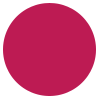
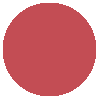
• Camera recording animation changed • Bug fixes

diff --git a/Spore/CameraController.swift b/Spore/CameraController.swift
@@ -17,6 +17,7 @@ import FBSDKLoginKit
 class CameraController: UIViewController, CLLocationManagerDelegate, UITextFieldDelegate, AVAudioRecorderDelegate {
     
     
+    //UI elements
     @IBOutlet var cameraImage: UIImageView!
     @IBOutlet var flashButton: UIButton!
     @IBOutlet var captureButton: UIButton!
@@ -30,6 +31,7 @@ class CameraController: UIViewController, CLLocationManagerDelegate, UITextField
     @IBOutlet var alertView: UIView!
     @IBOutlet var alertButton: UIButton!
     
+    //Camera and media elements
     var captureSession = AVCaptureSession()
     var audioSession = AVAudioSession()
     var audioRecorder: AVAudioRecorder!
@@ -47,6 +49,7 @@ class CameraController: UIViewController, CLLocationManagerDelegate, UITextField
         AVEncoderAudioQualityKey : NSNumber(int: Int32(AVAudioQuality.Medium.rawValue)),
         AVEncoderBitRateKey : NSNumber(int: Int32(320000))]
     
+    //File saving variables
     var locManager = CLLocationManager()
     let fileManager = NSFileManager.defaultManager()
     let documentsDirectory = NSSearchPathForDirectoriesInDomains(.DocumentDirectory, .UserDomainMask, true)[0]
@@ -57,6 +60,7 @@ class CameraController: UIViewController, CLLocationManagerDelegate, UITextField
     let imageFileExtension = ".jpg"
     let compressionGroup = dispatch_group_create()
     
+    //User variables
     var userLocation = PFGeoPoint(latitude: 0, longitude: 0)
     var userCountry = ""
     var userState = ""
@@ -496,7 +500,9 @@ class CameraController: UIViewController, CLLocationManagerDelegate, UITextField
                                 //Disable flash
                                 dispatch_async(dispatch_get_main_queue(), { () -> Void in
                                     
+                                    self.turnTorchOff()
                                     self.flashButton.enabled = false
+                                    
                                 })
                                 
                                 //Configure device modes
@@ -1388,19 +1394,6 @@ class CameraController: UIViewController, CLLocationManagerDelegate, UITextField
                 self.captureSession.stopRunning()
             })
         }
-            /*
-        else if reason == AVCaptureSessionInterruptionReason.VideoDeviceNotAvailableWithMultipleForegroundApps.rawValue {
-            
-            print("Interruption ended")
-            closeAlert()
-            dispatch_async(cameraQueue, { () -> Void in
-                
-                self.addCameraInputs()
-                self.addCameraOutputs()
-                self.captureSession.startRunning()
-            })
-            
-        }*/
     }
     
     

diff --git a/Spore/CaptureShape.swift b/Spore/CaptureShape.swift
@@ -57,6 +57,7 @@ class CaptureShape: UIView {
         //Animate the timer
         let progress = CABasicAnimation(keyPath: "strokeStart")
         let expansion = CABasicAnimation(keyPath: "path")
+        let width = CABasicAnimation(keyPath: "lineWidth")
         
         //Configure animation
         progress.duration = 10
@@ -72,15 +73,28 @@ class CaptureShape: UIView {
         expansion.removedOnCompletion = false
         expansion.fillMode = kCAFillModeForwards
         
+        
+        //Configure width change
+        width.duration = 2
+        width.fromValue = 3
+        width.toValue = 5
+        width.removedOnCompletion = false
+        width.fillMode = kCAFillModeForwards
+            
+            
         record.addAnimation(progress, forKey: nil)
-        border.addAnimation(expansion, forKey: nil)
         record.addAnimation(expansion, forKey: nil)
+        record.addAnimation(width, forKey: nil)
+        
+        border.addAnimation(expansion, forKey: nil)
+        border.addAnimation(width, forKey: nil)
     }
     
     internal func stopRecording() {
         
         border.removeAllAnimations()
         border.path = UIBezierPath(ovalInRect: CGRect(x: 0.0, y: 0.0, width: frame.width, height: frame.height)).CGPath
+        border.lineWidth = 3
         record.removeFromSuperlayer()
     }
     

diff --git a/Spore/MapController.swift b/Spore/MapController.swift
@@ -31,7 +31,7 @@ class MapController: UIViewController, MKMapViewDelegate {
     var receivedMarkersAreLoaded = false
     let receivedClusteringManager = ReceivedClusteringManager()
     
-    let receivedColor = UIColor(red: 189.0/255.0, green: 27.0/255.0, blue: 83.0/255.0, alpha: 1)
+    let receivedColor = UIColor(red: 195.0/255.0, green: 77.0/255.0, blue: 84.0/255.0, alpha: 1)
     let sentColor = UIColor(red: 254.0/255.0, green: 202.0/255.0, blue: 22.0/255.0, alpha: 1)
     
     @IBOutlet var mapView: MKMapView!

diff --git a/Spore/BeaconingIndicator.swift b/Spore/BeaconingIndicator.swift
@@ -16,7 +16,7 @@ class BeaconingIndicator: UIView {
     let dot = CAShapeLayer()
     let swirl = CAShapeLayer()
     let rotateAnimation = CABasicAnimation(keyPath: "transform.rotation")
-    let color = UIColor(red: 189.0/255.0, green: 27.0/255.0, blue: 83.0/255.0, alpha: 1).CGColor
+    let color = UIColor(red: 195.0/255.0, green: 77.0/255.0, blue: 84.0/255.0, alpha: 1).CGColor
     var isAnimating = false
     
     

diff --git a/Spore/UserListController.swift b/Spore/UserListController.swift
@@ -1457,6 +1457,7 @@ class UserListController: UITableViewController {
         if map.beaconControl.selectedSegmentIndex != 0 {
             
             map.beaconControl.selectedSegmentIndex = 0
+            map.beaconControlChanged(map.beaconControl)
         }
         
         //Pan to selected location
